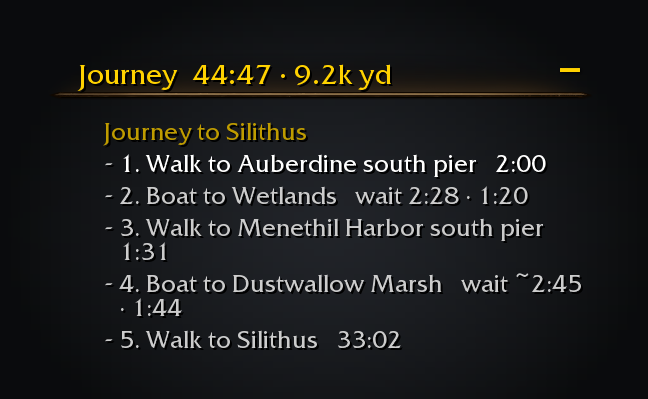
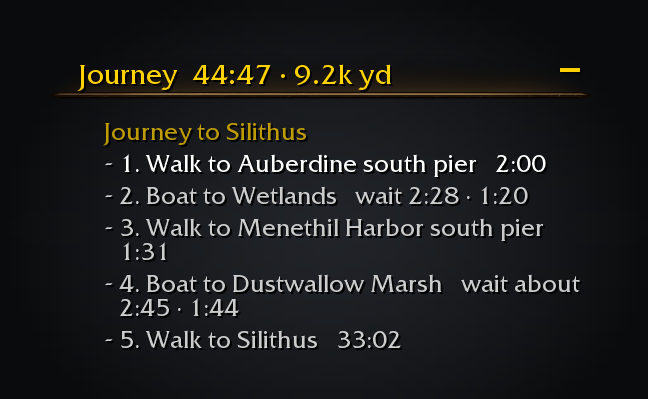
fix(journey): say "wait about" for a guessed wait, not a tilde
The tilde reads badly in the game's fonts. An untimed transport's wait now reads "wait about 2:45";
a timed one stays "wait 2:45". Updates the changelog, features page, store description and the
tracker mock, regenerated byte-identically.

Claude-Session: https://claude.ai/code/session_016cB4EsmY8J7vcvboaHNcoS

Changed region(s): [[0.1852, 0.7519, 0.3704, 0.812], [0.8025, 0.6617, 0.8951, 0.7519]]

diff --git a/tools/screenshots.py b/tools/screenshots.py
@@ -463,7 +463,7 @@ def tracker_canvas(ui, seconds=0, settling=False):
         colored(f"1. Walk to {dock_title(10)}   {countdown(120 - seconds)}", WHITE),
         "2. Boat to Wetlands   wait 2:28 · 1:20",
         f"3. Walk to {dock_title(5)}   1:31",
-        "4. Boat to Dustwallow Marsh   wait ~2:45 · 1:44",
+        "4. Boat to Dustwallow Marsh   wait about 2:45 · 1:44",
         "5. Walk to Silithus   33:02",
     ]
     title = "Journey to Silithus" + (" · finding the fastest way..." if settling else "")

diff --git a/docs/curseforge.md b/docs/curseforge.md
@@ -9,7 +9,7 @@ Shortest Path Forever finds the fastest way across WoW: Forever. Shift-click a d
 - **Guide, on with every journey.** The game's own waypoint marker leads you around each turn. Click the Journey header to toggle Guide, or right-click it to show the destination on the map or clear the journey. An optional compass marks your next turns, stop and destination.
 - **Live departures.** Hover a dock to see where its boats go, when they arrive and when they leave. Destination docks light up; click one to open the map at the other end. Nearby departures appear in the objective tracker; aboard a timed boat, it shows the next stop.
 - **Lifts, trams and portals.** Landings and stations have their own countdowns. Portals show where they lead, and clicking one opens that map. All three can be part of a journey.
-- **Schedules learned from real rides.** Ride once to sync a transport. Sightings are shared quietly with your guild, party and nearby players. Unsynced services say “no sighting yet”, and a journey marks their guessed wait with ~.
+- **Schedules learned from real rides.** Ride once to sync a transport. Sightings are shared quietly with your guild, party and nearby players. Unsynced services say “no sighting yet”, and a journey shows their guessed wait as “wait about”.
 - **Arrival alerts.** A banner, sound and flashing taskbar icon warn when your boat is due, including when you are waiting away from the keyboard.
 
 ![Journey steps from Auberdine to Silithus, with time and distance remaining](https://raw.githubusercontent.com/cjber/shortest-path-forever/main/docs/screenshots/tracker.png)

diff --git a/docs/features.md b/docs/features.md
@@ -54,6 +54,6 @@ The detail behind each feature in the [README](../README.md).
   minute before a timed boat reaches your dock and just before your own boat docks, for anyone waiting AFK.
 - **Times from real rides.** Each route's loop time comes from the game's own path data, so one ride tells
   the addon where that boat is for hours. Ride a boat, lift or tram once and its schedule syncs. Until then
-  its dock says *no sighting yet*, and a journey counts half a loop as its wait, marked with ~ (*wait ~2:45*).
+  its dock says *no sighting yet*, and a journey counts half a loop as its wait, shown as *wait about 2:45*.
 - **Shared between players.** Sightings are passed on quietly over guild, party and yell at the docks, so
   someone else's ride can time your boat. No chat messages are shown; turn it off in the settings.

diff --git a/CHANGELOG.md b/CHANGELOG.md
@@ -12,8 +12,8 @@ verbatim rather than rewritten as the addon moves.
 ## [Unreleased]
 
 A journey step on a boat, lift or tram that nobody has timed yet no longer says “no sighting yet” beside a
-wait it cannot know. Its wait carries a tilde instead, such as *wait ~2:45*: half the loop, the average
-wait. Timed crossings show their real wait as before.
+wait it cannot know. Its wait reads *wait about 2:45* instead: half the loop, the average wait. Timed
+crossings show their real wait as before.
 
 Guide keeps its map pin hidden and removes it when a journey ends, tracking changes or you reload, while
 preserving your own pins and tracking choices.
